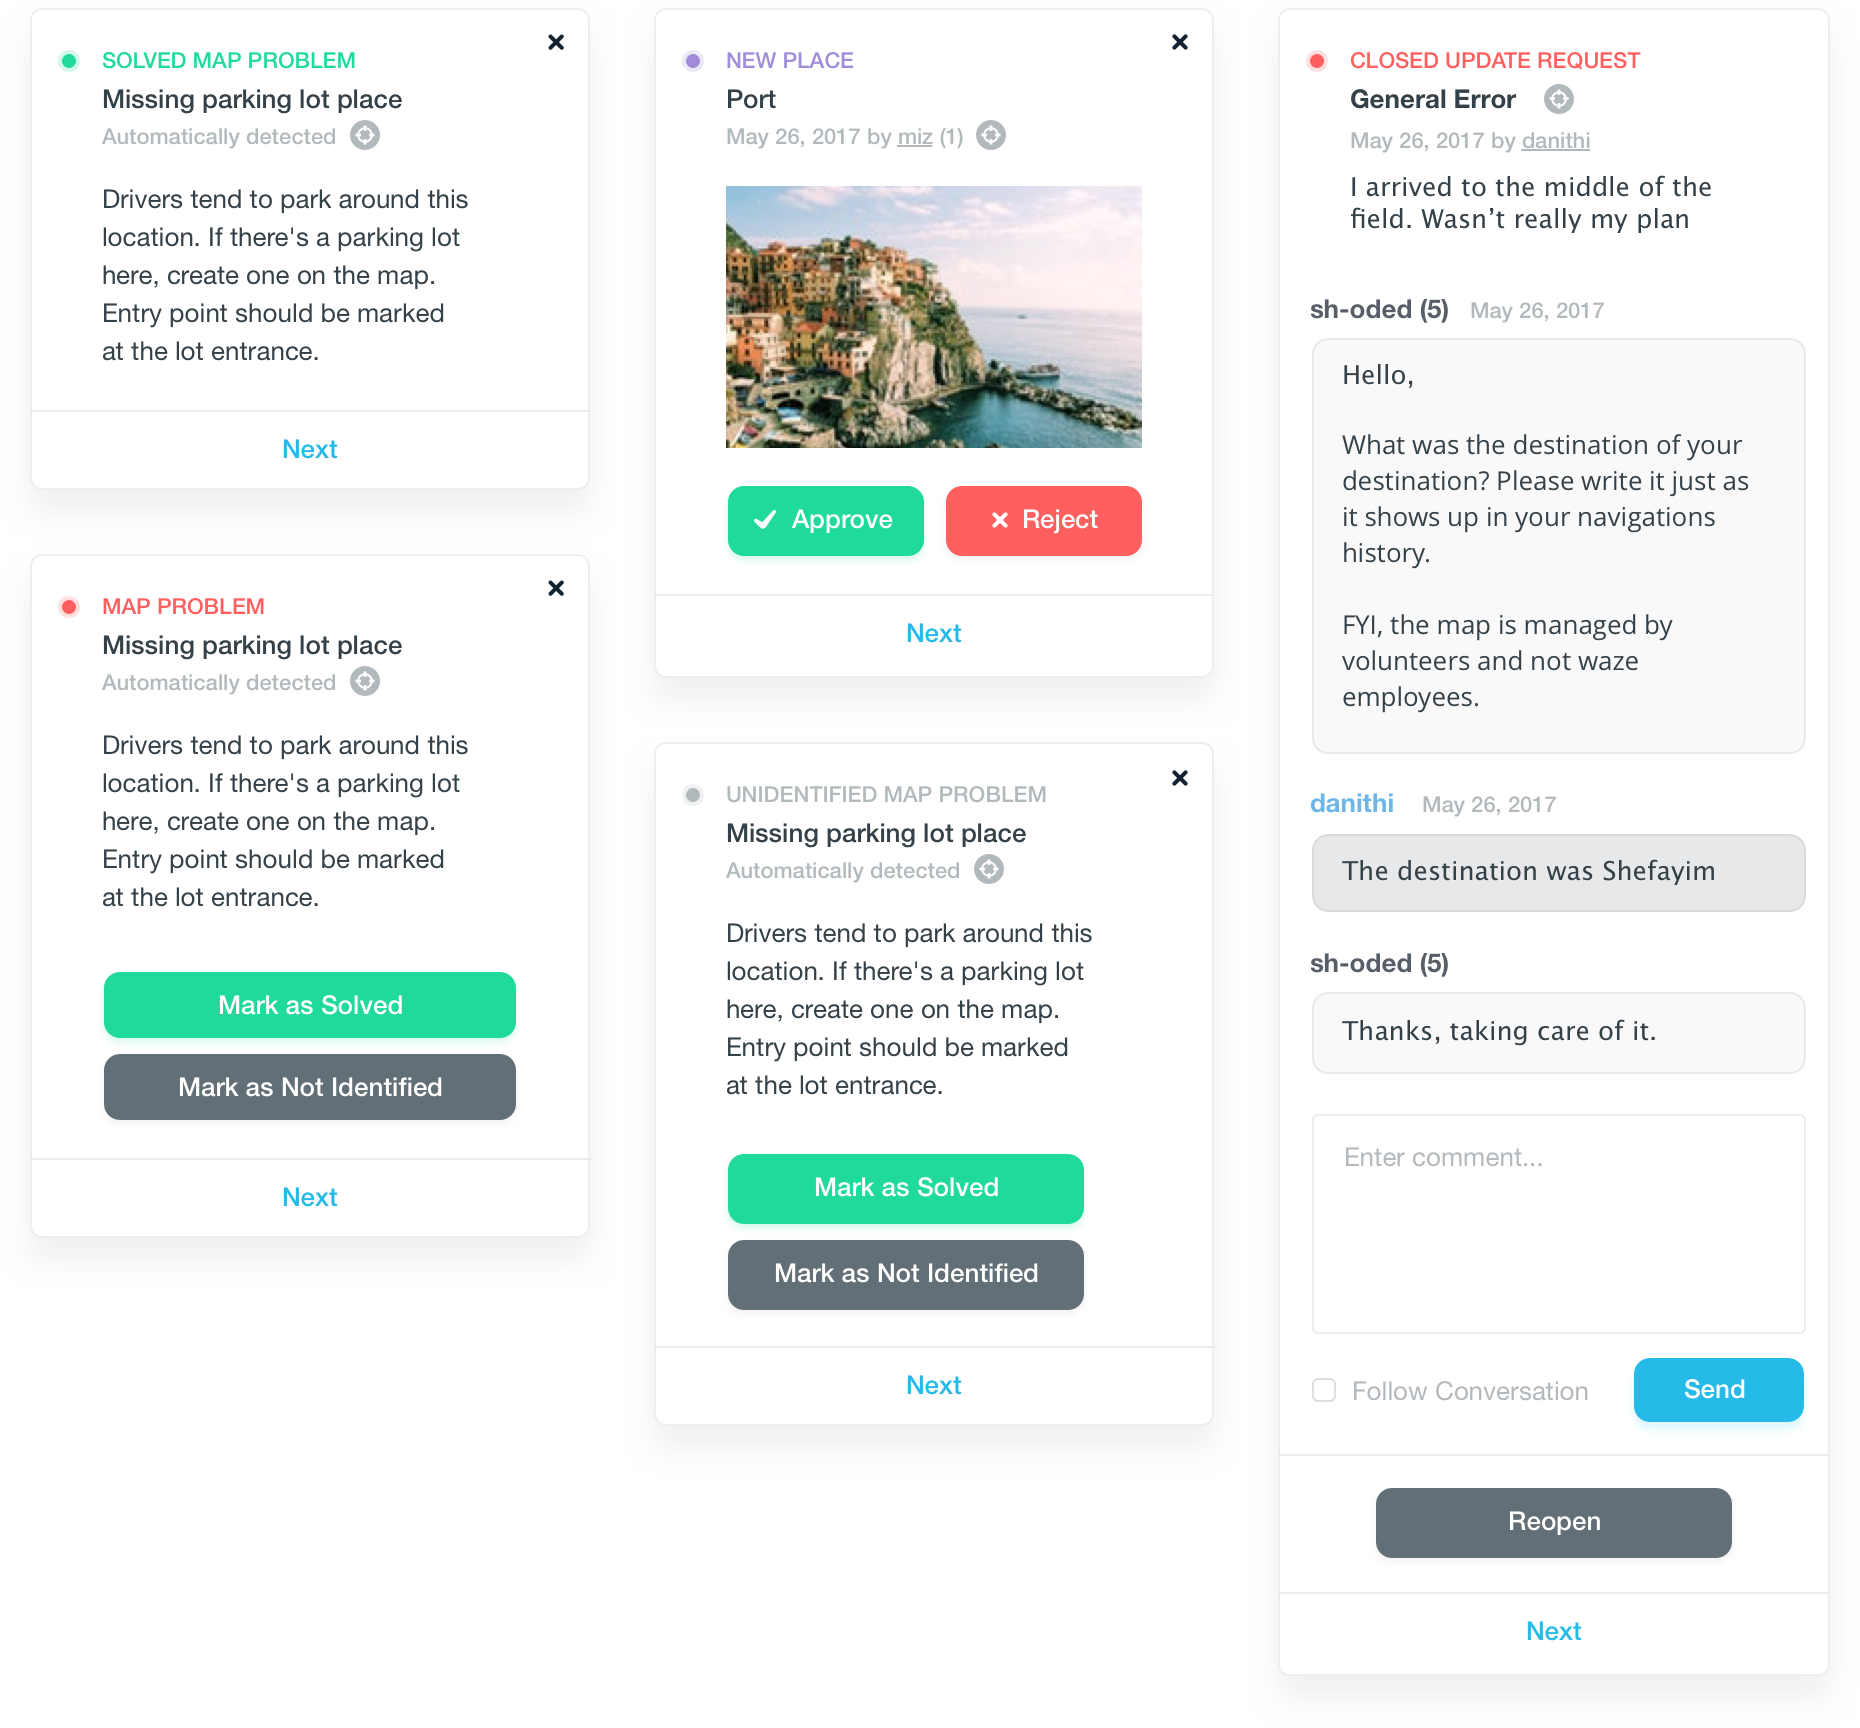
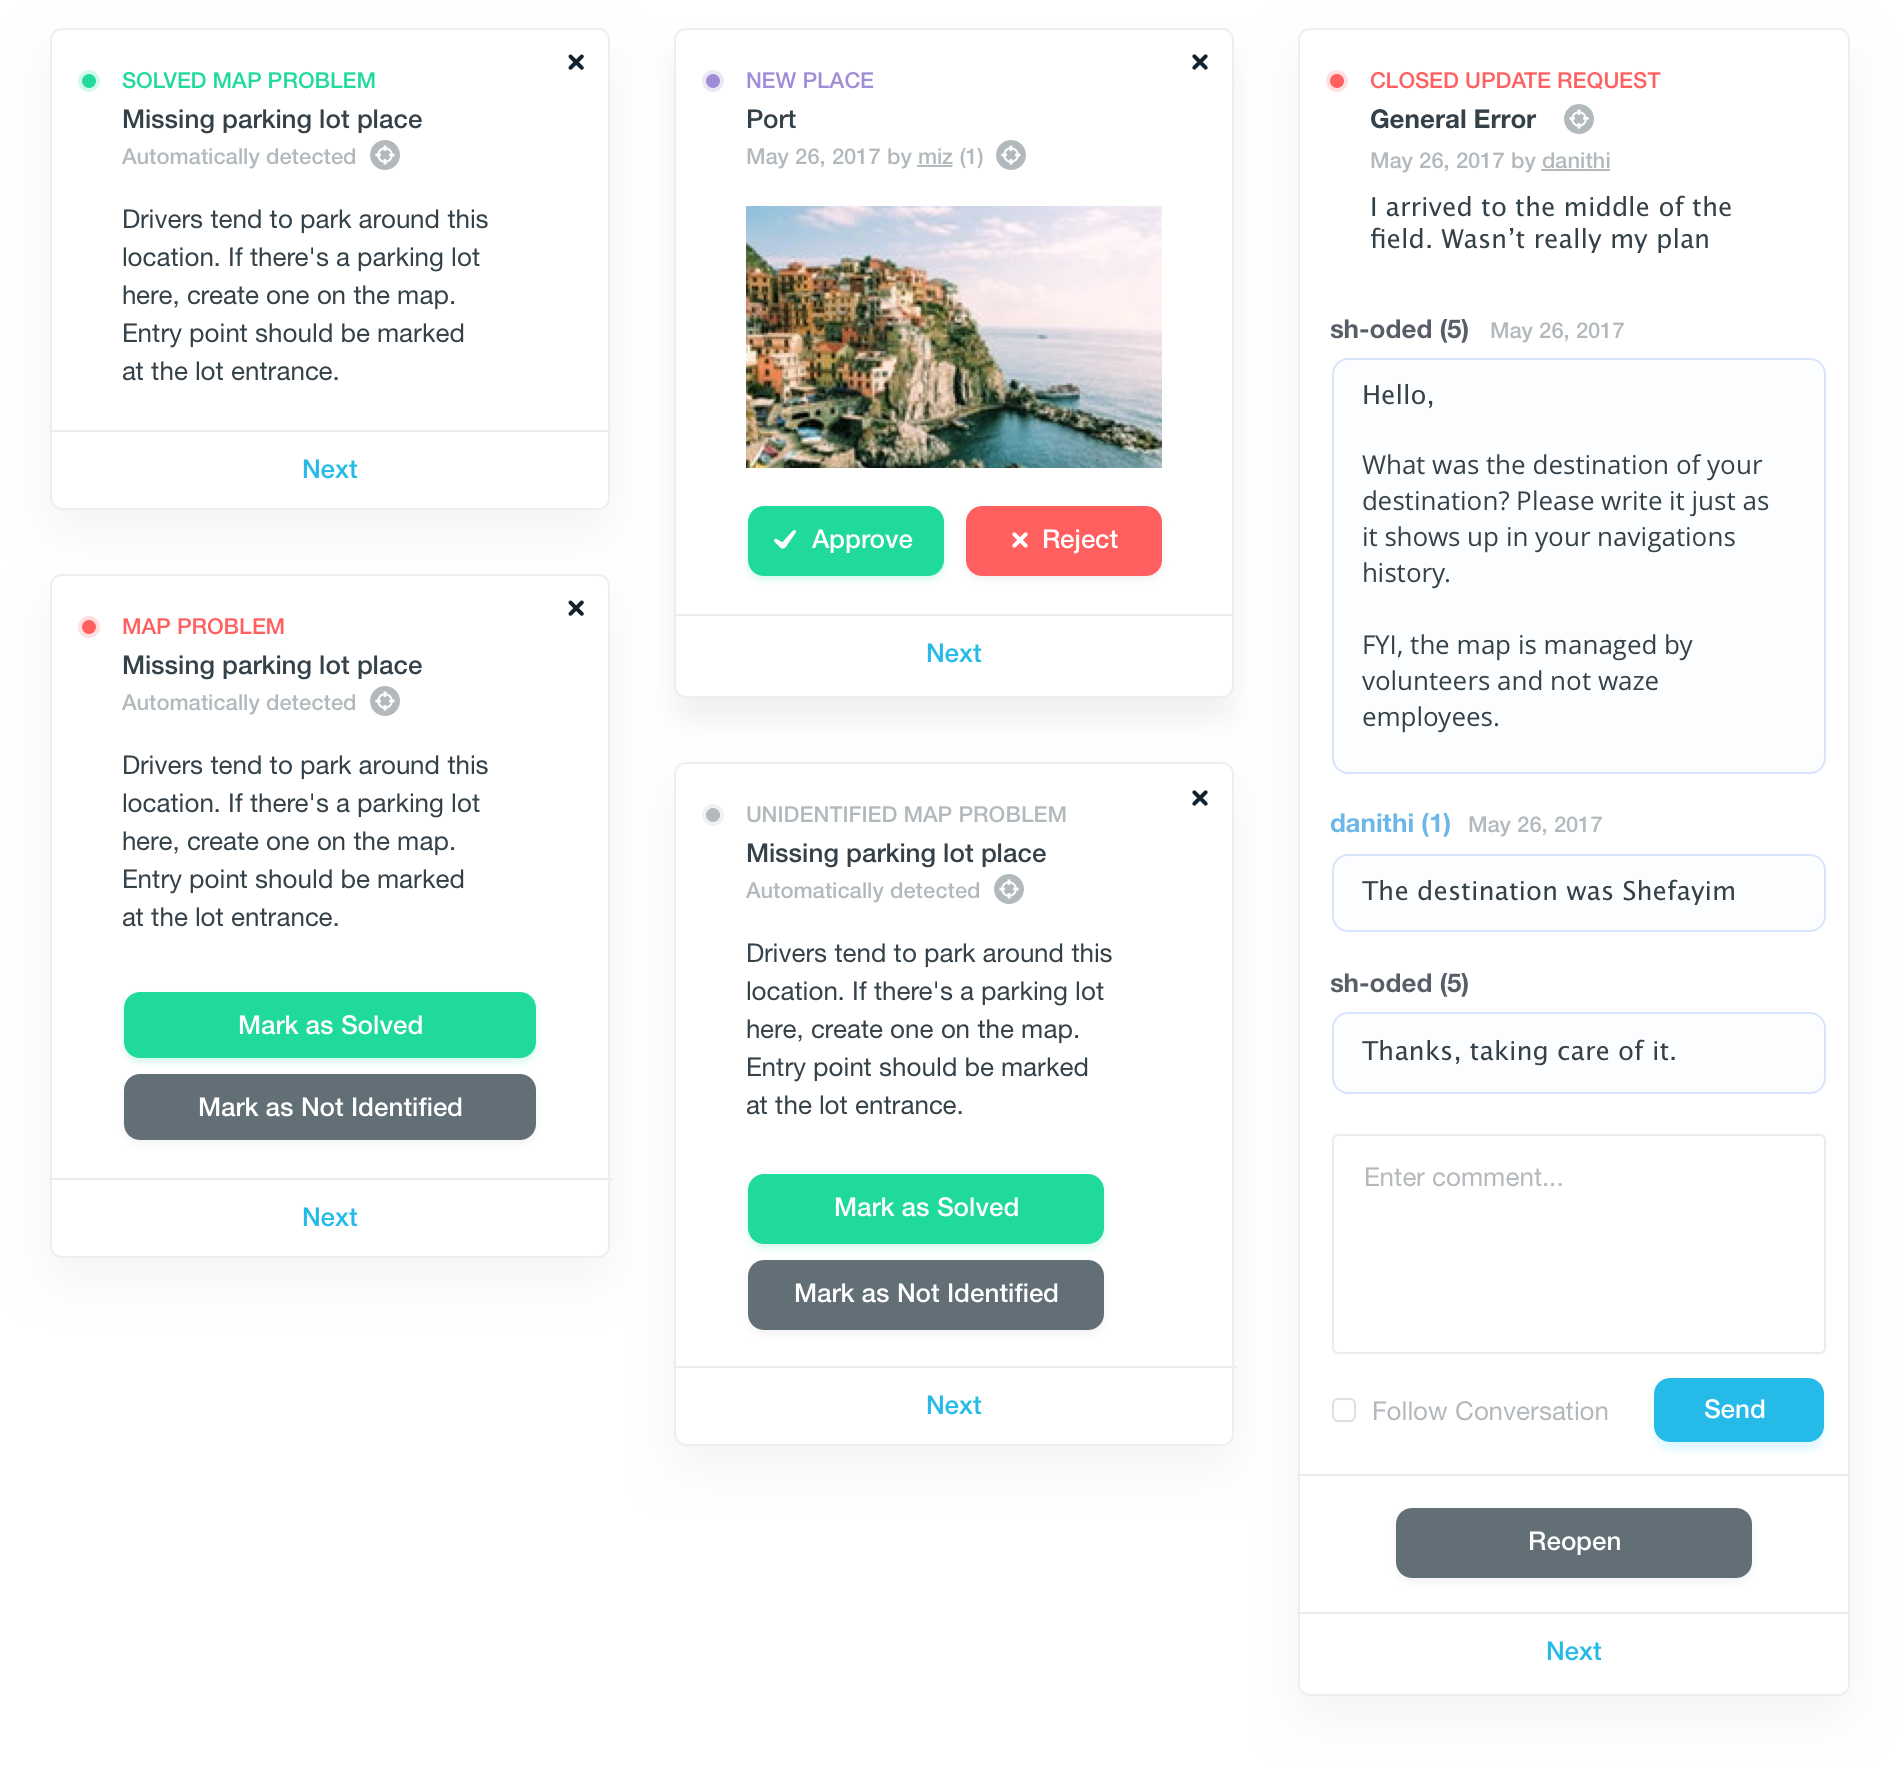
fixed responsiveness

diff --git a/css/projects.css b/css/projects.css
@@ -206,4 +206,8 @@ background-image: linear-gradient(-180deg, #587780 0%, #90A8AF 100%);
     padding-top: 80px;
     padding-bottom: 80px;
   }
+
+  .waze-notifications img{
+    max-width: 80%;
+  }
 }
